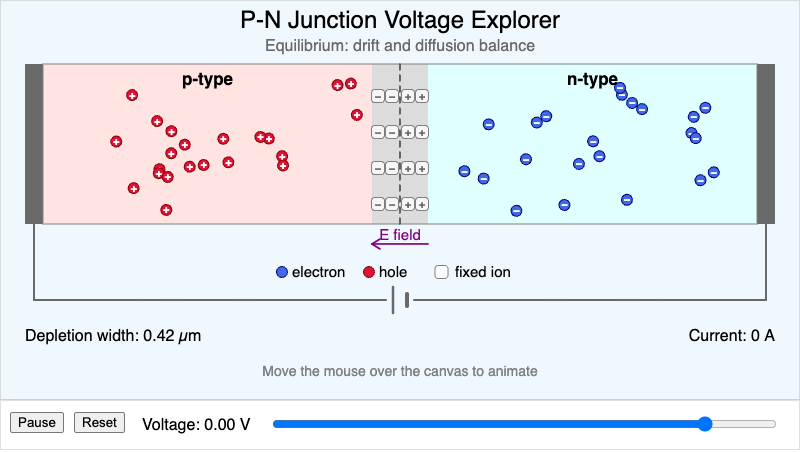
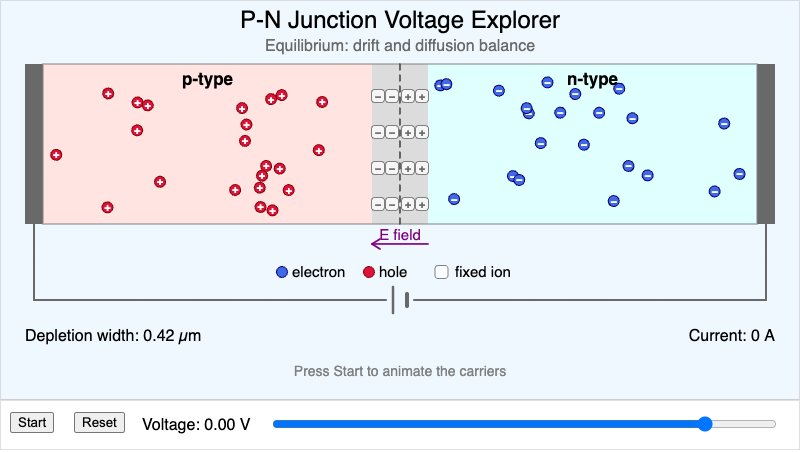
updates pn-junction MicroSim

diff --git a/docs/sims/pn-junction/pn-junction.js b/docs/sims/pn-junction/pn-junction.js
@@ -44,21 +44,16 @@ let depletionPx = W0_PX;           // current depletion width on screen (px)
 let carriers = [];                 // mobile electrons and holes
 let flashes = [];                  // recombination flash effects
 const CARRIERS_PER_SIDE = 22;
-let isRunning = true;
-let mouseOverCanvas = false;
+let isRunning = false;             // loads paused; press Start to animate
 
 function setup() {
   updateCanvasSize();
   const canvas = createCanvas(canvasWidth, canvasHeight);
   canvas.parent(document.querySelector('main'));
 
-  // Animate only while the mouse is over the canvas (saves CPU in iframes)
-  canvas.mouseOver(() => mouseOverCanvas = true);
-  canvas.mouseOut(() => mouseOverCanvas = false);
-
   computeGeometry();
 
-  startButton = createButton('Pause');
+  startButton = createButton('Start');
   startButton.position(10, drawHeight + 12);
   startButton.mousePressed(toggleSimulation);
 
@@ -82,7 +77,10 @@ function setup() {
     'and holes. Forward bias narrows the depletion region and carriers ' +
     'stream across the junction; reverse bias widens the depletion region ' +
     'and blocks current. Readouts show the depletion width in micrometers ' +
-    'and the diode current from the Shockley equation.', LABEL);
+    'and the diode current from the Shockley equation. The simulation ' +
+    'loads paused; press the Start button to animate the carriers. The ' +
+    'depletion region, field, and readouts follow the slider even while ' +
+    'paused.', LABEL);
 }
 
 function draw() {
@@ -104,9 +102,13 @@ function draw() {
   drawFieldArrow();
   drawCircuit();
 
-  if (isRunning && mouseOverCanvas) {
+  if (isRunning) {
     updateCarriers();
     updateFlashes();
+  } else {
+    // Even while paused, keep carriers out of the depletion region so the
+    // display stays consistent as the slider moves
+    constrainCarriersToRegions();
   }
   drawCarriers();
   drawFlashes();
@@ -116,7 +118,7 @@ function draw() {
   drawBiasStatus();
   drawLegend();
   drawReadouts();
-  drawHoverHint();
+  drawPausedHint();
   drawControlLabels();
 }
 
@@ -251,6 +253,30 @@ function updateCarriers() {
       c.targetX = (c.type === 'electron') ? Math.max(junctionX - depth, barLeft + 12)
                                           : Math.min(junctionX + depth, barRight - 12);
     }
+  }
+}
+
+// Position-only pass used while paused: as the slider moves the depletion
+// edges, carriers are pushed out of the depletion region without any
+// thermal motion or injection.
+function constrainCarriersToRegions() {
+  const forward = appliedVoltage > 0.05;
+  const hw = depletionPx / 2;
+  const leftEdge = junctionX - hw;
+  const rightEdge = junctionX + hw;
+  for (const c of carriers) {
+    if (c.state === 'crossing') {
+      // A frozen mid-flight carrier is fine under forward bias, but if the
+      // bias is gone the injected carrier no longer belongs there
+      if (!forward) respawnAtContact(c);
+      continue;
+    }
+    if (c.type === 'electron') {
+      c.x = constrain(c.x, rightEdge + 6, barRight - 8);
+    } else {
+      c.x = constrain(c.x, barLeft + 8, leftEdge - 6);
+    }
+    c.y = constrain(c.y, barTop + 18, barBottom - 12);
   }
 }
 
@@ -532,13 +558,13 @@ function drawReadouts() {
        canvasWidth - margin, 336);
 }
 
-function drawHoverHint() {
-  if (isRunning && !mouseOverCanvas) {
+function drawPausedHint() {
+  if (!isRunning) {
     noStroke();
     fill('gray');
     textSize(14);
     textAlign(CENTER, CENTER);
-    text('Move the mouse over the canvas to animate', canvasWidth / 2, 372);
+    text('Press Start to animate the carriers', canvasWidth / 2, 372);
   }
 }
 

diff --git a/docs/sims/pn-junction/index.md b/docs/sims/pn-junction/index.md
@@ -49,9 +49,10 @@ Drag the voltage slider to bias the junction:
 
 Live readouts show the depletion width in micrometers and the diode current
 from the Shockley equation — watch the current span more than twelve decades,
-from picoamperes in reverse bias to amperes at +0.75 V. The animation runs
-while your mouse is over the canvas; the Pause and Reset buttons control the
-simulation.
+from picoamperes in reverse bias to amperes at +0.75 V. The simulation loads
+paused: the depletion region, electric field, and readouts respond instantly
+as you drag the voltage slider, and pressing **Start** animates the carrier
+motion.
 
 ## Things to Try
 